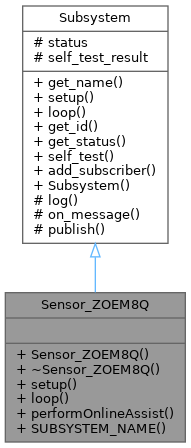
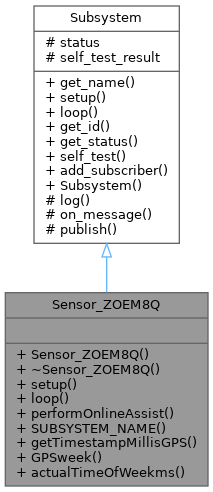
Deploying to gh-pages from @ TeamSunride/MRAS@5115ba26f7fcceb204237237314dbee87b6a2837 🚀

diff --git a/classSensor__ZOEM8Q-members.html b/classSensor__ZOEM8Q-members.html
@@ -112,23 +112,26 @@ $(document).ready(function(){initNavTree('classSensor__ZOEM8Q.html',''); initRes
 
 <p>This is the complete list of members for <a class="el" href="classSensor__ZOEM8Q.html">Sensor_ZOEM8Q</a>, including all inherited members.</p>
 <table class="directory">
-  <tr class="even"><td class="entry"><a class="el" href="classSubsystem.html#a2889256c514795843bae996625348f83">add_subscriber</a>(Subsystem *subscriber)</td><td class="entry"><a class="el" href="classSubsystem.html">Subsystem</a></td><td class="entry"></td></tr>
-  <tr class="odd"><td class="entry"><a class="el" href="classSubsystem.html#a4a05504b0bf74642351608e7e4eae730">get_id</a>() const</td><td class="entry"><a class="el" href="classSubsystem.html">Subsystem</a></td><td class="entry"></td></tr>
-  <tr class="even"><td class="entry"><a class="el" href="classSubsystem.html#a19fffb42e27b6720100ff6870e84f382">get_name</a>()=0</td><td class="entry"><a class="el" href="classSubsystem.html">Subsystem</a></td><td class="entry"><span class="mlabel">pure virtual</span></td></tr>
-  <tr class="odd"><td class="entry"><a class="el" href="classSubsystem.html#a29baf5580b55bc1f1b92cbcafe5aa622">get_status</a>() const</td><td class="entry"><a class="el" href="classSubsystem.html">Subsystem</a></td><td class="entry"></td></tr>
-  <tr bgcolor="#f0f0f0" class="even"><td class="entry"><b>log</b>(const char fmt[],...) (defined in <a class="el" href="classSubsystem.html">Subsystem</a>)</td><td class="entry"><a class="el" href="classSubsystem.html">Subsystem</a></td><td class="entry"><span class="mlabel">protected</span></td></tr>
-  <tr class="odd"><td class="entry"><a class="el" href="classSensor__ZOEM8Q.html#a9cbd8c73bf8c0e646cd3c03e23568807">loop</a>() override</td><td class="entry"><a class="el" href="classSensor__ZOEM8Q.html">Sensor_ZOEM8Q</a></td><td class="entry"><span class="mlabel">virtual</span></td></tr>
-  <tr class="even"><td class="entry"><a class="el" href="classSubsystem.html#af75325e817855184984edb1e6aa59f2a">on_message</a>(SystemMessage *msg)=0</td><td class="entry"><a class="el" href="classSubsystem.html">Subsystem</a></td><td class="entry"><span class="mlabel">protected</span><span class="mlabel">pure virtual</span></td></tr>
-  <tr class="odd"><td class="entry"><a class="el" href="classSensor__ZOEM8Q.html#a23e75e857628594a7fd513357be81fbd">performOnlineAssist</a>()</td><td class="entry"><a class="el" href="classSensor__ZOEM8Q.html">Sensor_ZOEM8Q</a></td><td class="entry"></td></tr>
-  <tr class="even"><td class="entry"><a class="el" href="classSubsystem.html#abab34124fc7777591cac49e0189a4291">publish</a>(SystemMessage *msg)</td><td class="entry"><a class="el" href="classSubsystem.html">Subsystem</a></td><td class="entry"><span class="mlabel">protected</span></td></tr>
-  <tr class="odd"><td class="entry"><a class="el" href="classSubsystem.html#a6c2f37ce5335a64781f5719d3569c0be">self_test</a>() const</td><td class="entry"><a class="el" href="classSubsystem.html">Subsystem</a></td><td class="entry"></td></tr>
-  <tr bgcolor="#f0f0f0" class="even"><td class="entry"><b>self_test_result</b> (defined in <a class="el" href="classSubsystem.html">Subsystem</a>)</td><td class="entry"><a class="el" href="classSubsystem.html">Subsystem</a></td><td class="entry"><span class="mlabel">protected</span></td></tr>
-  <tr bgcolor="#f0f0f0" class="odd"><td class="entry"><b>Sensor_ZOEM8Q</b>(uint8_t id, TwoWire &amp;pipe, uint32_t freq) (defined in <a class="el" href="classSensor__ZOEM8Q.html">Sensor_ZOEM8Q</a>)</td><td class="entry"><a class="el" href="classSensor__ZOEM8Q.html">Sensor_ZOEM8Q</a></td><td class="entry"><span class="mlabel">inline</span></td></tr>
-  <tr bgcolor="#f0f0f0" class="even"><td class="entry"><b>setup</b>() override (defined in <a class="el" href="classSensor__ZOEM8Q.html">Sensor_ZOEM8Q</a>)</td><td class="entry"><a class="el" href="classSensor__ZOEM8Q.html">Sensor_ZOEM8Q</a></td><td class="entry"><span class="mlabel">virtual</span></td></tr>
-  <tr bgcolor="#f0f0f0" class="odd"><td class="entry"><b>status</b> (defined in <a class="el" href="classSubsystem.html">Subsystem</a>)</td><td class="entry"><a class="el" href="classSubsystem.html">Subsystem</a></td><td class="entry"><span class="mlabel">protected</span></td></tr>
-  <tr class="even"><td class="entry"><a class="el" href="classSubsystem.html#a6eb8c08dad3e114628c49ecc54c457fb">Subsystem</a>(uint8_t id)</td><td class="entry"><a class="el" href="classSubsystem.html">Subsystem</a></td><td class="entry"><span class="mlabel">inline</span><span class="mlabel">explicit</span></td></tr>
-  <tr bgcolor="#f0f0f0" class="odd"><td class="entry"><b>SUBSYSTEM_NAME</b>(&quot;ZOEM8Q&quot;) (defined in <a class="el" href="classSensor__ZOEM8Q.html">Sensor_ZOEM8Q</a>)</td><td class="entry"><a class="el" href="classSensor__ZOEM8Q.html">Sensor_ZOEM8Q</a></td><td class="entry"></td></tr>
-  <tr bgcolor="#f0f0f0" class="even"><td class="entry"><b>~Sensor_ZOEM8Q</b>() (defined in <a class="el" href="classSensor__ZOEM8Q.html">Sensor_ZOEM8Q</a>)</td><td class="entry"><a class="el" href="classSensor__ZOEM8Q.html">Sensor_ZOEM8Q</a></td><td class="entry"><span class="mlabel">inline</span></td></tr>
+  <tr bgcolor="#f0f0f0" class="even"><td class="entry"><b>actualTimeOfWeekms</b>() (defined in <a class="el" href="classSensor__ZOEM8Q.html">Sensor_ZOEM8Q</a>)</td><td class="entry"><a class="el" href="classSensor__ZOEM8Q.html">Sensor_ZOEM8Q</a></td><td class="entry"><span class="mlabel">static</span></td></tr>
+  <tr class="odd"><td class="entry"><a class="el" href="classSubsystem.html#a2889256c514795843bae996625348f83">add_subscriber</a>(Subsystem *subscriber)</td><td class="entry"><a class="el" href="classSubsystem.html">Subsystem</a></td><td class="entry"></td></tr>
+  <tr class="even"><td class="entry"><a class="el" href="classSubsystem.html#a4a05504b0bf74642351608e7e4eae730">get_id</a>() const</td><td class="entry"><a class="el" href="classSubsystem.html">Subsystem</a></td><td class="entry"></td></tr>
+  <tr class="odd"><td class="entry"><a class="el" href="classSubsystem.html#a19fffb42e27b6720100ff6870e84f382">get_name</a>()=0</td><td class="entry"><a class="el" href="classSubsystem.html">Subsystem</a></td><td class="entry"><span class="mlabel">pure virtual</span></td></tr>
+  <tr class="even"><td class="entry"><a class="el" href="classSubsystem.html#a29baf5580b55bc1f1b92cbcafe5aa622">get_status</a>() const</td><td class="entry"><a class="el" href="classSubsystem.html">Subsystem</a></td><td class="entry"></td></tr>
+  <tr class="odd"><td class="entry"><a class="el" href="classSensor__ZOEM8Q.html#a9cc83e1cc7cbc8b68072700249277918">getTimestampMillisGPS</a>()</td><td class="entry"><a class="el" href="classSensor__ZOEM8Q.html">Sensor_ZOEM8Q</a></td><td class="entry"><span class="mlabel">static</span></td></tr>
+  <tr bgcolor="#f0f0f0" class="even"><td class="entry"><b>GPSweek</b>() (defined in <a class="el" href="classSensor__ZOEM8Q.html">Sensor_ZOEM8Q</a>)</td><td class="entry"><a class="el" href="classSensor__ZOEM8Q.html">Sensor_ZOEM8Q</a></td><td class="entry"><span class="mlabel">static</span></td></tr>
+  <tr bgcolor="#f0f0f0" class="odd"><td class="entry"><b>log</b>(const char fmt[],...) (defined in <a class="el" href="classSubsystem.html">Subsystem</a>)</td><td class="entry"><a class="el" href="classSubsystem.html">Subsystem</a></td><td class="entry"><span class="mlabel">protected</span></td></tr>
+  <tr class="even"><td class="entry"><a class="el" href="classSensor__ZOEM8Q.html#a9cbd8c73bf8c0e646cd3c03e23568807">loop</a>() override</td><td class="entry"><a class="el" href="classSensor__ZOEM8Q.html">Sensor_ZOEM8Q</a></td><td class="entry"><span class="mlabel">virtual</span></td></tr>
+  <tr class="odd"><td class="entry"><a class="el" href="classSubsystem.html#af75325e817855184984edb1e6aa59f2a">on_message</a>(SystemMessage *msg)=0</td><td class="entry"><a class="el" href="classSubsystem.html">Subsystem</a></td><td class="entry"><span class="mlabel">protected</span><span class="mlabel">pure virtual</span></td></tr>
+  <tr class="even"><td class="entry"><a class="el" href="classSensor__ZOEM8Q.html#a23e75e857628594a7fd513357be81fbd">performOnlineAssist</a>()</td><td class="entry"><a class="el" href="classSensor__ZOEM8Q.html">Sensor_ZOEM8Q</a></td><td class="entry"></td></tr>
+  <tr class="odd"><td class="entry"><a class="el" href="classSubsystem.html#abab34124fc7777591cac49e0189a4291">publish</a>(SystemMessage *msg)</td><td class="entry"><a class="el" href="classSubsystem.html">Subsystem</a></td><td class="entry"><span class="mlabel">protected</span></td></tr>
+  <tr class="even"><td class="entry"><a class="el" href="classSubsystem.html#a6c2f37ce5335a64781f5719d3569c0be">self_test</a>() const</td><td class="entry"><a class="el" href="classSubsystem.html">Subsystem</a></td><td class="entry"></td></tr>
+  <tr bgcolor="#f0f0f0" class="odd"><td class="entry"><b>self_test_result</b> (defined in <a class="el" href="classSubsystem.html">Subsystem</a>)</td><td class="entry"><a class="el" href="classSubsystem.html">Subsystem</a></td><td class="entry"><span class="mlabel">protected</span></td></tr>
+  <tr bgcolor="#f0f0f0" class="even"><td class="entry"><b>Sensor_ZOEM8Q</b>(uint8_t id, TwoWire &amp;pipe, uint32_t freq) (defined in <a class="el" href="classSensor__ZOEM8Q.html">Sensor_ZOEM8Q</a>)</td><td class="entry"><a class="el" href="classSensor__ZOEM8Q.html">Sensor_ZOEM8Q</a></td><td class="entry"><span class="mlabel">inline</span></td></tr>
+  <tr bgcolor="#f0f0f0" class="odd"><td class="entry"><b>setup</b>() override (defined in <a class="el" href="classSensor__ZOEM8Q.html">Sensor_ZOEM8Q</a>)</td><td class="entry"><a class="el" href="classSensor__ZOEM8Q.html">Sensor_ZOEM8Q</a></td><td class="entry"><span class="mlabel">virtual</span></td></tr>
+  <tr bgcolor="#f0f0f0" class="even"><td class="entry"><b>status</b> (defined in <a class="el" href="classSubsystem.html">Subsystem</a>)</td><td class="entry"><a class="el" href="classSubsystem.html">Subsystem</a></td><td class="entry"><span class="mlabel">protected</span></td></tr>
+  <tr class="odd"><td class="entry"><a class="el" href="classSubsystem.html#a6eb8c08dad3e114628c49ecc54c457fb">Subsystem</a>(uint8_t id)</td><td class="entry"><a class="el" href="classSubsystem.html">Subsystem</a></td><td class="entry"><span class="mlabel">inline</span><span class="mlabel">explicit</span></td></tr>
+  <tr bgcolor="#f0f0f0" class="even"><td class="entry"><b>SUBSYSTEM_NAME</b>(&quot;ZOEM8Q&quot;) (defined in <a class="el" href="classSensor__ZOEM8Q.html">Sensor_ZOEM8Q</a>)</td><td class="entry"><a class="el" href="classSensor__ZOEM8Q.html">Sensor_ZOEM8Q</a></td><td class="entry"></td></tr>
+  <tr bgcolor="#f0f0f0" class="odd"><td class="entry"><b>~Sensor_ZOEM8Q</b>() (defined in <a class="el" href="classSensor__ZOEM8Q.html">Sensor_ZOEM8Q</a>)</td><td class="entry"><a class="el" href="classSensor__ZOEM8Q.html">Sensor_ZOEM8Q</a></td><td class="entry"><span class="mlabel">inline</span></td></tr>
 </table></div><!-- contents -->
 </div><!-- doc-content -->
 <!-- start footer part -->

diff --git a/classSensor__ZOEM8Q.html b/classSensor__ZOEM8Q.html
@@ -108,6 +108,7 @@ $(document).ready(function(){initNavTree('classSensor__ZOEM8Q.html',''); initRes
 <div class="header">
   <div class="summary">
 <a href="#pub-methods">Public Member Functions</a> &#124;
+<a href="#pub-static-methods">Static Public Member Functions</a> &#124;
 <a href="classSensor__ZOEM8Q-members.html">List of all members</a>  </div>
   <div class="headertitle"><div class="title">Sensor_ZOEM8Q Class Reference</div></div>
 </div><!--header-->
@@ -117,8 +118,8 @@ Inheritance diagram for Sensor_ZOEM8Q:</div>
 <div class="dyncontent">
 <div class="center"><img src="classSensor__ZOEM8Q__inherit__graph.png" border="0" usemap="#aSensor__ZOEM8Q_inherit__map" alt="Inheritance graph"/></div>
 <map name="aSensor__ZOEM8Q_inherit__map" id="aSensor__ZOEM8Q_inherit__map">
-<area shape="rect" title=" " alt="" coords="5,292,185,443"/>
-<area shape="rect" href="classSubsystem.html" title=" " alt="" coords="23,5,168,244"/>
+<area shape="rect" title=" " alt="" coords="5,292,208,487"/>
+<area shape="rect" href="classSubsystem.html" title=" " alt="" coords="34,5,179,244"/>
 </map>
 </div>
 <div class="dynheader">
@@ -126,8 +127,8 @@ Collaboration diagram for Sensor_ZOEM8Q:</div>
 <div class="dyncontent">
 <div class="center"><img src="classSensor__ZOEM8Q__coll__graph.png" border="0" usemap="#aSensor__ZOEM8Q_coll__map" alt="Collaboration graph"/></div>
 <map name="aSensor__ZOEM8Q_coll__map" id="aSensor__ZOEM8Q_coll__map">
-<area shape="rect" title=" " alt="" coords="5,292,185,443"/>
-<area shape="rect" href="classSubsystem.html" title=" " alt="" coords="23,5,168,244"/>
+<area shape="rect" title=" " alt="" coords="5,292,208,487"/>
+<area shape="rect" href="classSubsystem.html" title=" " alt="" coords="34,5,179,244"/>
 </map>
 </div>
 <table class="memberdecls">
@@ -164,6 +165,17 @@ virtual int8_t&#160;</td><td class="memItemRight" valign="bottom"><b>setup</b> (
 <tr class="memitem:a6eb8c08dad3e114628c49ecc54c457fb inherit pub_methods_classSubsystem"><td class="memItemLeft" align="right" valign="top">&#160;</td><td class="memItemRight" valign="bottom"><a class="el" href="classSubsystem.html#a6eb8c08dad3e114628c49ecc54c457fb">Subsystem</a> (uint8_t id)</td></tr>
 <tr class="separator:a6eb8c08dad3e114628c49ecc54c457fb inherit pub_methods_classSubsystem"><td class="memSeparator" colspan="2">&#160;</td></tr>
 </table><table class="memberdecls">
+<tr class="heading"><td colspan="2"><h2 class="groupheader"><a id="pub-static-methods" name="pub-static-methods"></a>
+Static Public Member Functions</h2></td></tr>
+<tr class="memitem:a9cc83e1cc7cbc8b68072700249277918"><td class="memItemLeft" align="right" valign="top">static uint64_t&#160;</td><td class="memItemRight" valign="bottom"><a class="el" href="classSensor__ZOEM8Q.html#a9cc83e1cc7cbc8b68072700249277918">getTimestampMillisGPS</a> ()</td></tr>
+<tr class="separator:a9cc83e1cc7cbc8b68072700249277918"><td class="memSeparator" colspan="2">&#160;</td></tr>
+<tr class="memitem:aaade3f72951a4ea7061fe2603c3e5de7"><td class="memItemLeft" align="right" valign="top"><a id="aaade3f72951a4ea7061fe2603c3e5de7" name="aaade3f72951a4ea7061fe2603c3e5de7"></a>
+static uint16_t&#160;</td><td class="memItemRight" valign="bottom"><b>GPSweek</b> ()</td></tr>
+<tr class="separator:aaade3f72951a4ea7061fe2603c3e5de7"><td class="memSeparator" colspan="2">&#160;</td></tr>
+<tr class="memitem:ae42c41770b49d220d7613a32ced407d9"><td class="memItemLeft" align="right" valign="top"><a id="ae42c41770b49d220d7613a32ced407d9" name="ae42c41770b49d220d7613a32ced407d9"></a>
+static uint32_t&#160;</td><td class="memItemRight" valign="bottom"><b>actualTimeOfWeekms</b> ()</td></tr>
+<tr class="separator:ae42c41770b49d220d7613a32ced407d9"><td class="memSeparator" colspan="2">&#160;</td></tr>
+</table><table class="memberdecls">
 <tr class="heading"><td colspan="2"><h2 class="groupheader"><a id="inherited" name="inherited"></a>
 Additional Inherited Members</h2></td></tr>
 <tr class="inherit_header pro_methods_classSubsystem"><td colspan="2" onclick="javascript:toggleInherit('pro_methods_classSubsystem')"><img src="closed.png" alt="-"/>&#160;Protected Member Functions inherited from <a class="el" href="classSubsystem.html">Subsystem</a></td></tr>
@@ -183,6 +195,32 @@ int8_t&#160;</td><td class="memItemRight" valign="bottom"><b>self_test_result</b
 <tr class="separator:a93bc5cae446258f55bdb16e5174da159 inherit pro_attribs_classSubsystem"><td class="memSeparator" colspan="2">&#160;</td></tr>
 </table>
 <h2 class="groupheader">Member Function Documentation</h2>
+<a id="a9cc83e1cc7cbc8b68072700249277918" name="a9cc83e1cc7cbc8b68072700249277918"></a>
+<h2 class="memtitle"><span class="permalink"><a href="#a9cc83e1cc7cbc8b68072700249277918">&#9670;&#160;</a></span>getTimestampMillisGPS()</h2>
+
+<div class="memitem">
+<div class="memproto">
+<table class="mlabels">
+  <tr>
+  <td class="mlabels-left">
+      <table class="memname">
+        <tr>
+          <td class="memname">uint64_t Sensor_ZOEM8Q::getTimestampMillisGPS </td>
+          <td>(</td>
+          <td class="paramname"></td><td>)</td>
+          <td></td>
+        </tr>
+      </table>
+  </td>
+  <td class="mlabels-right">
+<span class="mlabels"><span class="mlabel">static</span></span>  </td>
+  </tr>
+</table>
+</div><div class="memdoc">
+<p>syncs the RTC on tje teensy 4.1 with the unix time at compile time</p>
+
+</div>
+</div>
 <a id="a9cbd8c73bf8c0e646cd3c03e23568807" name="a9cbd8c73bf8c0e646cd3c03e23568807"></a>
 <h2 class="memtitle"><span class="permalink"><a href="#a9cbd8c73bf8c0e646cd3c03e23568807">&#9670;&#160;</a></span>loop()</h2>
 
@@ -227,6 +265,7 @@ int8_t&#160;</td><td class="memItemRight" valign="bottom"><b>self_test_result</b
 </div><div class="memdoc">
 <p>------&mdash; AIDING SEQUENCE------&mdash; Datasheet section 13.5 (pg. 34) &mdash; Note that we are altering the AID_INI part of the message and leaving the rest as is. &mdash; • Power-up the GPS receiver • Send UBX-AID-INI (time, clock and position) message. • Send UBX-AID-EPH (ephemeris) message. • Apply optional hardware time synchronization pulse within 0.5 s after (or before, depending on the configuration in UBX-AID-INI) sending the UBX-AID-INI message if hardware time synchronization is required. When sending the message before applying the pulse, make sure to allow the GPS receiver to parse and process the aiding message. The time for parsing depends on the baud rate. The processing time is 100 ms maximum. • Send optional UBX-AID-HUI (health, UTC and ionosphere parameters) message. • Send optional UBX-AID-ALM (almanac) message.</p>
 <p>this file ("mgaonline.ubx") should be loaded into the onboard SD card the file should be obtained from the ublocks server the generator token for that can be obtained from thingstream from ublocks See <a href="https://developer.thingstream.io/guides/location-services/assistnow-getting-started-guide">https://developer.thingstream.io/guides/location-services/assistnow-getting-started-guide</a> for more details</p>
+<p>Note: The file needs to be called "mgaonline.ubx" and placed in the root of the SD card</p>
 
 </div>
 </div>

diff --git a/Sensor__ZOEM8Q_8h_source.html b/Sensor__ZOEM8Q_8h_source.html
@@ -150,20 +150,27 @@ $(document).ready(function(){initNavTree('Sensor__ZOEM8Q_8h_source.html',''); in
 <div class="line"><a id="l00039" name="l00039"></a><span class="lineno">   39</span> </div>
 <div class="line"><a id="l00040" name="l00040"></a><span class="lineno">   40</span>    int8_t <a class="code hl_function" href="classSensor__ZOEM8Q.html#a9cbd8c73bf8c0e646cd3c03e23568807">loop</a>() <span class="keyword">override</span>;</div>
 <div class="line"><a id="l00041" name="l00041"></a><span class="lineno">   41</span> </div>
-<div class="line"><a id="l00042" name="l00042"></a><span class="lineno">   42</span>    int8_t <a class="code hl_function" href="classSensor__ZOEM8Q.html#a23e75e857628594a7fd513357be81fbd">performOnlineAssist</a>();</div>
+<div class="line"><a id="l00042" name="l00042"></a><span class="lineno">   42</span>    <span class="keyword">static</span> uint64_t <a class="code hl_function" href="classSensor__ZOEM8Q.html#a9cc83e1cc7cbc8b68072700249277918">getTimestampMillisGPS</a>();</div>
 <div class="line"><a id="l00043" name="l00043"></a><span class="lineno">   43</span> </div>
-<div class="line"><a id="l00044" name="l00044"></a><span class="lineno">   44</span>    SUBSYSTEM_NO_MESSAGE_HANDLER</div>
-<div class="line"><a id="l00045" name="l00045"></a><span class="lineno">   45</span>    SUBSYSTEM_NAME(<span class="stringliteral">&quot;ZOEM8Q&quot;</span>);</div>
-<div class="line"><a id="l00046" name="l00046"></a><span class="lineno">   46</span> </div>
+<div class="line"><a id="l00044" name="l00044"></a><span class="lineno">   44</span>    <span class="keyword">static</span> uint16_t GPSweek();</div>
+<div class="line"><a id="l00045" name="l00045"></a><span class="lineno">   45</span> </div>
+<div class="line"><a id="l00046" name="l00046"></a><span class="lineno">   46</span>    <span class="keyword">static</span> uint32_t actualTimeOfWeekms();</div>
 <div class="line"><a id="l00047" name="l00047"></a><span class="lineno">   47</span> </div>
-<div class="line"><a id="l00048" name="l00048"></a><span class="lineno">   48</span>};</div>
+<div class="line"><a id="l00048" name="l00048"></a><span class="lineno">   48</span>    int8_t <a class="code hl_function" href="classSensor__ZOEM8Q.html#a23e75e857628594a7fd513357be81fbd">performOnlineAssist</a>();</div>
 <div class="line"><a id="l00049" name="l00049"></a><span class="lineno">   49</span> </div>
-<div class="line"><a id="l00050" name="l00050"></a><span class="lineno">   50</span>uint64_t getTimestampMillisGPS();</div>
-<div class="line"><a id="l00051" name="l00051"></a><span class="lineno">   51</span> </div>
-<div class="line"><a id="l00052" name="l00052"></a><span class="lineno">   52</span><span class="preprocessor">#endif </span><span class="comment">//MRAS_SENSOR_ZOEM8Q_H</span></div>
+<div class="line"><a id="l00050" name="l00050"></a><span class="lineno">   50</span>    SUBSYSTEM_NO_MESSAGE_HANDLER</div>
+<div class="line"><a id="l00051" name="l00051"></a><span class="lineno">   51</span>    SUBSYSTEM_NAME(<span class="stringliteral">&quot;ZOEM8Q&quot;</span>);</div>
+<div class="line"><a id="l00052" name="l00052"></a><span class="lineno">   52</span> </div>
+<div class="line"><a id="l00053" name="l00053"></a><span class="lineno">   53</span> </div>
+<div class="line"><a id="l00054" name="l00054"></a><span class="lineno">   54</span>};</div>
+<div class="line"><a id="l00055" name="l00055"></a><span class="lineno">   55</span> </div>
+<div class="line"><a id="l00056" name="l00056"></a><span class="lineno">   56</span>uint64_t getTimestampMillisGPS();</div>
+<div class="line"><a id="l00057" name="l00057"></a><span class="lineno">   57</span> </div>
+<div class="line"><a id="l00058" name="l00058"></a><span class="lineno">   58</span><span class="preprocessor">#endif </span><span class="comment">//MRAS_SENSOR_ZOEM8Q_H</span></div>
 <div class="ttc" id="aclassSensor__ZOEM8Q_html"><div class="ttname"><a href="classSensor__ZOEM8Q.html">Sensor_ZOEM8Q</a></div><div class="ttdef"><b>Definition:</b> Sensor_ZOEM8Q.h:19</div></div>
-<div class="ttc" id="aclassSensor__ZOEM8Q_html_a23e75e857628594a7fd513357be81fbd"><div class="ttname"><a href="classSensor__ZOEM8Q.html#a23e75e857628594a7fd513357be81fbd">Sensor_ZOEM8Q::performOnlineAssist</a></div><div class="ttdeci">int8_t performOnlineAssist()</div><div class="ttdef"><b>Definition:</b> Sensor_ZOEM8Q.cpp:98</div></div>
-<div class="ttc" id="aclassSensor__ZOEM8Q_html_a9cbd8c73bf8c0e646cd3c03e23568807"><div class="ttname"><a href="classSensor__ZOEM8Q.html#a9cbd8c73bf8c0e646cd3c03e23568807">Sensor_ZOEM8Q::loop</a></div><div class="ttdeci">int8_t loop() override</div><div class="ttdef"><b>Definition:</b> Sensor_ZOEM8Q.cpp:25</div></div>
+<div class="ttc" id="aclassSensor__ZOEM8Q_html_a23e75e857628594a7fd513357be81fbd"><div class="ttname"><a href="classSensor__ZOEM8Q.html#a23e75e857628594a7fd513357be81fbd">Sensor_ZOEM8Q::performOnlineAssist</a></div><div class="ttdeci">int8_t performOnlineAssist()</div><div class="ttdef"><b>Definition:</b> Sensor_ZOEM8Q.cpp:95</div></div>
+<div class="ttc" id="aclassSensor__ZOEM8Q_html_a9cbd8c73bf8c0e646cd3c03e23568807"><div class="ttname"><a href="classSensor__ZOEM8Q.html#a9cbd8c73bf8c0e646cd3c03e23568807">Sensor_ZOEM8Q::loop</a></div><div class="ttdeci">int8_t loop() override</div><div class="ttdef"><b>Definition:</b> Sensor_ZOEM8Q.cpp:29</div></div>
+<div class="ttc" id="aclassSensor__ZOEM8Q_html_a9cc83e1cc7cbc8b68072700249277918"><div class="ttname"><a href="classSensor__ZOEM8Q.html#a9cc83e1cc7cbc8b68072700249277918">Sensor_ZOEM8Q::getTimestampMillisGPS</a></div><div class="ttdeci">static uint64_t getTimestampMillisGPS()</div><div class="ttdef"><b>Definition:</b> Sensor_ZOEM8Q.cpp:49</div></div>
 <div class="ttc" id="aclassSubsystem_html"><div class="ttname"><a href="classSubsystem.html">Subsystem</a></div><div class="ttdef"><b>Definition:</b> Subsystem.h:31</div></div>
 </div><!-- fragment --></div><!-- contents -->
 </div><!-- doc-content -->

diff --git a/Sensor__LSM6DSO32_8h_source.html b/Sensor__LSM6DSO32_8h_source.html
@@ -127,10 +127,10 @@ $(document).ready(function(){initNavTree('Sensor__LSM6DSO32_8h_source.html','');
 <div class="line"><a id="l00016" name="l00016"></a><span class="lineno">   16</span> </div>
 <div class="line"><a id="l00017" name="l00017"></a><span class="lineno"><a class="line" href="classSensor__LSM6DSO32.html">   17</a></span><span class="keyword">class </span><a class="code hl_class" href="classSensor__LSM6DSO32.html">Sensor_LSM6DSO32</a> : <span class="keyword">public</span> <a class="code hl_class" href="classSubsystem.html">Subsystem</a> {</div>
 <div class="line"><a id="l00018" name="l00018"></a><span class="lineno">   18</span><span class="keyword">private</span>:</div>
-<div class="line"><a id="l00019" name="l00019"></a><span class="lineno">   19</span>    LSM6DSO32 *lsm;</div>
+<div class="line"><a id="l00019" name="l00019"></a><span class="lineno">   19</span>    LSM6DSO32::LSM6DSO32 *lsm;</div>
 <div class="line"><a id="l00020" name="l00020"></a><span class="lineno">   20</span><span class="keyword">public</span>:</div>
 <div class="line"><a id="l00021" name="l00021"></a><span class="lineno">   21</span>    <a class="code hl_class" href="classSensor__LSM6DSO32.html">Sensor_LSM6DSO32</a>(uint8_t <span class="keywordtype">id</span>, uint8_t chip_select, SPIClass &amp;spi, uint32_t frequency) : <a class="code hl_class" href="classSubsystem.html">Subsystem</a>(<span class="keywordtype">id</span>) {</div>
-<div class="line"><a id="l00022" name="l00022"></a><span class="lineno">   22</span>        lsm = <span class="keyword">new</span> LSM6DSO32(chip_select, spi, frequency);</div>
+<div class="line"><a id="l00022" name="l00022"></a><span class="lineno">   22</span>        lsm = <span class="keyword">new</span> LSM6DSO32::LSM6DSO32(chip_select, spi, frequency);</div>
 <div class="line"><a id="l00023" name="l00023"></a><span class="lineno">   23</span>    }</div>
 <div class="line"><a id="l00024" name="l00024"></a><span class="lineno">   24</span> </div>
 <div class="line"><a id="l00025" name="l00025"></a><span class="lineno">   25</span>    <a class="code hl_class" href="classSensor__LSM6DSO32.html">~Sensor_LSM6DSO32</a>() {</div>

diff --git a/classSubsystem.html b/classSubsystem.html
@@ -128,13 +128,13 @@ Inheritance diagram for Subsystem:</div>
 <area shape="rect" href="classSensor__LIS3MDL.html" title=" " alt="" coords="533,343,699,465"/>
 <area shape="rect" href="classSensor__LSM6DSO32.html" title=" " alt="" coords="723,343,911,465"/>
 <area shape="rect" href="classSensor__MS5607.html" title=" " alt="" coords="935,351,1086,457"/>
-<area shape="rect" href="classSensor__ZOEM8Q.html" title=" " alt="" coords="1110,329,1290,479"/>
-<area shape="rect" href="classTelemetrySystem.html" title=" " alt="" coords="1314,292,1518,516"/>
-<area shape="rect" href="classTextLogger.html" title=" " alt="" coords="1555,358,1674,450"/>
-<area shape="rect" href="classGroundTelemetrySystem.html" title=" " alt="" coords="1119,593,1302,671"/>
-<area shape="rect" href="classRocketTelemetrySystem.html" title=" " alt="" coords="1326,593,1506,671"/>
-<area shape="rect" href="classArduinoTextLogger.html" title=" " alt="" coords="1531,571,1699,693"/>
-<area shape="rect" href="classNativeTextLogger.html" title=" " alt="" coords="1723,564,1885,700"/>
+<area shape="rect" href="classSensor__ZOEM8Q.html" title=" " alt="" coords="1111,307,1313,501"/>
+<area shape="rect" href="classTelemetrySystem.html" title=" " alt="" coords="1338,292,1542,516"/>
+<area shape="rect" href="classTextLogger.html" title=" " alt="" coords="1579,358,1698,450"/>
+<area shape="rect" href="classGroundTelemetrySystem.html" title=" " alt="" coords="1143,593,1326,671"/>
+<area shape="rect" href="classRocketTelemetrySystem.html" title=" " alt="" coords="1350,593,1530,671"/>
+<area shape="rect" href="classArduinoTextLogger.html" title=" " alt="" coords="1555,571,1723,693"/>
+<area shape="rect" href="classNativeTextLogger.html" title=" " alt="" coords="1747,564,1909,700"/>
 </map>
 </div>
 <div class="dynheader">

diff --git a/functions_func.html b/functions_func.html
@@ -112,6 +112,7 @@ $(document).ready(function(){initNavTree('functions_func.html',''); initResizabl
 <li>get_instance()&#160;:&#160;<a class="el" href="classMRAS__System.html#a07cf9d005ca99766edd263fb5ab8d2c7">MRAS_System</a></li>
 <li>get_name()&#160;:&#160;<a class="el" href="classNativeTextLogger.html#ac0baa51553319023bc068e50f887fb2c">NativeTextLogger</a>, <a class="el" href="classSubsystem.html#a19fffb42e27b6720100ff6870e84f382">Subsystem</a></li>
 <li>get_status()&#160;:&#160;<a class="el" href="classSubsystem.html#a29baf5580b55bc1f1b92cbcafe5aa622">Subsystem</a></li>
+<li>getTimestampMillisGPS()&#160;:&#160;<a class="el" href="classSensor__ZOEM8Q.html#a9cc83e1cc7cbc8b68072700249277918">Sensor_ZOEM8Q</a></li>
 <li>loop()&#160;:&#160;<a class="el" href="classSensor__ZOEM8Q.html#a9cbd8c73bf8c0e646cd3c03e23568807">Sensor_ZOEM8Q</a></li>
 <li>MRAS_System()&#160;:&#160;<a class="el" href="classMRAS__System.html#a539e7079c645c20af80ab37b212cd561">MRAS_System</a></li>
 <li>on_message()&#160;:&#160;<a class="el" href="classNativeDataLogger.html#a88837dee85e3ca2ba70e9bab002945bc">NativeDataLogger</a>, <a class="el" href="classSubsystem.html#af75325e817855184984edb1e6aa59f2a">Subsystem</a></li>

diff --git a/search/all_5.js b/search/all_5.js
@@ -4,7 +4,8 @@ var searchData=
   ['get_5finstance_1',['get_instance',['../classMRAS__System.html#a07cf9d005ca99766edd263fb5ab8d2c7',1,'MRAS_System']]],
   ['get_5fname_2',['get_name',['../classNativeTextLogger.html#ac0baa51553319023bc068e50f887fb2c',1,'NativeTextLogger::get_name()'],['../classSubsystem.html#a19fffb42e27b6720100ff6870e84f382',1,'Subsystem::get_name()=0']]],
   ['get_5fstatus_3',['get_status',['../classSubsystem.html#a29baf5580b55bc1f1b92cbcafe5aa622',1,'Subsystem']]],
-  ['gnssdatamsg_4',['GNSSDataMsg',['../structGNSSDataMsg.html',1,'']]],
-  ['groundtelemetrysystem_5',['GroundTelemetrySystem',['../classGroundTelemetrySystem.html',1,'']]],
-  ['gyrodatamsg_6',['GyroDataMsg',['../structGyroDataMsg.html',1,'']]]
+  ['gettimestampmillisgps_4',['getTimestampMillisGPS',['../classSensor__ZOEM8Q.html#a9cc83e1cc7cbc8b68072700249277918',1,'Sensor_ZOEM8Q']]],
+  ['gnssdatamsg_5',['GNSSDataMsg',['../structGNSSDataMsg.html',1,'']]],
+  ['groundtelemetrysystem_6',['GroundTelemetrySystem',['../classGroundTelemetrySystem.html',1,'']]],
+  ['gyrodatamsg_7',['GyroDataMsg',['../structGyroDataMsg.html',1,'']]]
 ];

diff --git a/functions.html b/functions.html
@@ -114,6 +114,7 @@ $(document).ready(function(){initNavTree('functions.html',''); initResizable(); 
 <li>get_instance()&#160;:&#160;<a class="el" href="classMRAS__System.html#a07cf9d005ca99766edd263fb5ab8d2c7">MRAS_System</a></li>
 <li>get_name()&#160;:&#160;<a class="el" href="classNativeTextLogger.html#ac0baa51553319023bc068e50f887fb2c">NativeTextLogger</a>, <a class="el" href="classSubsystem.html#a19fffb42e27b6720100ff6870e84f382">Subsystem</a></li>
 <li>get_status()&#160;:&#160;<a class="el" href="classSubsystem.html#a29baf5580b55bc1f1b92cbcafe5aa622">Subsystem</a></li>
+<li>getTimestampMillisGPS()&#160;:&#160;<a class="el" href="classSensor__ZOEM8Q.html#a9cc83e1cc7cbc8b68072700249277918">Sensor_ZOEM8Q</a></li>
 <li>longitude&#160;:&#160;<a class="el" href="structGNSSDataMsg.html#a1c9a05107f5d7d98dcd8718208858662">GNSSDataMsg</a></li>
 <li>loop()&#160;:&#160;<a class="el" href="classSensor__ZOEM8Q.html#a9cbd8c73bf8c0e646cd3c03e23568807">Sensor_ZOEM8Q</a></li>
 <li>MRAS_System()&#160;:&#160;<a class="el" href="classMRAS__System.html#a539e7079c645c20af80ab37b212cd561">MRAS_System</a></li>

diff --git a/search/functions_1.js b/search/functions_1.js
@@ -3,5 +3,6 @@ var searchData=
   ['get_5fid_0',['get_id',['../classSubsystem.html#a4a05504b0bf74642351608e7e4eae730',1,'Subsystem']]],
   ['get_5finstance_1',['get_instance',['../classMRAS__System.html#a07cf9d005ca99766edd263fb5ab8d2c7',1,'MRAS_System']]],
   ['get_5fname_2',['get_name',['../classNativeTextLogger.html#ac0baa51553319023bc068e50f887fb2c',1,'NativeTextLogger::get_name()'],['../classSubsystem.html#a19fffb42e27b6720100ff6870e84f382',1,'Subsystem::get_name()=0']]],
-  ['get_5fstatus_3',['get_status',['../classSubsystem.html#a29baf5580b55bc1f1b92cbcafe5aa622',1,'Subsystem']]]
+  ['get_5fstatus_3',['get_status',['../classSubsystem.html#a29baf5580b55bc1f1b92cbcafe5aa622',1,'Subsystem']]],
+  ['gettimestampmillisgps_4',['getTimestampMillisGPS',['../classSensor__ZOEM8Q.html#a9cc83e1cc7cbc8b68072700249277918',1,'Sensor_ZOEM8Q']]]
 ];
